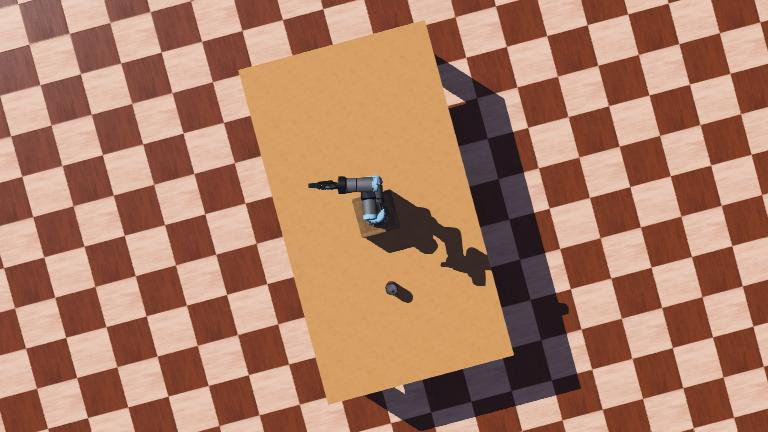
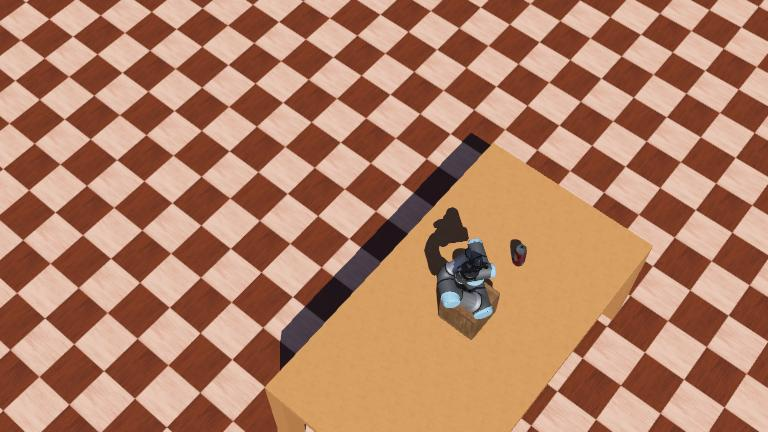
corke IK

diff --git a/controllers/ur3_rtde_controller_IK_Corke/Webots_GUI_Corke_IK.py b/controllers/ur3_rtde_controller_IK_Corke/Webots_GUI_Corke_IK.py
@@ -1,0 +1,154 @@
+import sys
+import json
+import socket
+import math
+from PyQt5.QtWidgets import *
+from PyQt5.QtCore import Qt
+
+# Für Forward Kinematics
+import spatialmath as sm
+from roboticstoolbox import models
+
+class RobotControlGUI(QWidget):
+    def __init__(self):
+        super().__init__()
+        self.sock = socket.socket(socket.AF_INET, socket.SOCK_STREAM)
+        self.ur3_model = models.UR3()
+        self.initUI()
+        self.connect_to_robot()
+        # Einmalige Initialabfrage der aktuellen Pose
+        self.request_current_pose()
+
+    def initUI(self):
+        self.setWindowTitle('UR3e Cartesian Control (MoveL)')
+        layout = QVBoxLayout()
+
+        # Eingabefelder für kartesische Pose, angepasst auf UR3-Arbeitsbereich
+        form = QFormLayout()
+        # UR3 Arbeitsbereich: X und Y in ±0.42m, Z in [0.0, 0.8]
+        self.spin_x = QDoubleSpinBox(); self.spin_x.setRange(-0.42, 0.42); self.spin_x.setSingleStep(0.01)
+        self.spin_y = QDoubleSpinBox(); self.spin_y.setRange(-0.42, 0.42); self.spin_y.setSingleStep(0.01)
+        self.spin_z = QDoubleSpinBox(); self.spin_z.setRange(0.0, 0.8); self.spin_z.setSingleStep(0.01)
+        # Orientierung: Roll, Pitch, Yaw in [-π, π]
+        self.spin_roll = QDoubleSpinBox(); self.spin_roll.setRange(-math.pi, math.pi); self.spin_roll.setSingleStep(0.1)
+        self.spin_pitch = QDoubleSpinBox(); self.spin_pitch.setRange(-math.pi, math.pi); self.spin_pitch.setSingleStep(0.1)
+        self.spin_yaw = QDoubleSpinBox(); self.spin_yaw.setRange(-math.pi, math.pi); self.spin_yaw.setSingleStep(0.1)
+
+        form.addRow('X [m]:', self.spin_x)
+        form.addRow('Y [m]:', self.spin_y)
+        form.addRow('Z [m]:', self.spin_z)
+        form.addRow('Roll [rad]:', self.spin_roll)
+        form.addRow('Pitch [rad]:', self.spin_pitch)
+        form.addRow('Yaw [rad]:', self.spin_yaw)
+        layout.addLayout(form)
+
+        # MoveL Button
+        self.btn_move = QPushButton('MoveL ausführen')
+        self.btn_move.clicked.connect(self.send_moveL)
+        layout.addWidget(self.btn_move)
+
+        # Geschwindigkeit Slider
+        speed_layout = QHBoxLayout()
+        self.ur_speed_slider = QSlider(Qt.Horizontal)
+        self.ur_speed_slider.setMinimum(1)
+        self.ur_speed_slider.setMaximum(100)
+        self.ur_speed_slider.setValue(50)
+        self.ur_speed_slider.valueChanged.connect(self.update_speed_label)
+        self.ur_speed_label = QLabel('Speed: 0.50')
+        speed_layout.addWidget(self.ur_speed_label)
+        speed_layout.addWidget(self.ur_speed_slider)
+        layout.addLayout(speed_layout)
+
+        # Greifer-Buttons
+        grip_layout = QHBoxLayout()
+        self.btn_open = QPushButton('Greifer öffnen')
+        self.btn_close = QPushButton('Greifer schließen')
+        self.btn_open.clicked.connect(self.open_gripper)
+        self.btn_close.clicked.connect(self.close_gripper)
+        grip_layout.addWidget(self.btn_open)
+        grip_layout.addWidget(self.btn_close)
+        layout.addLayout(grip_layout)
+
+        # Status
+        self.status_label = QLabel('Verbindung: nicht verbunden')
+        layout.addWidget(self.status_label)
+
+        self.setLayout(layout)
+        self.resize(400, 300)
+
+    def update_speed_label(self, val):
+        speed = val / 100.0
+        self.ur_speed_label.setText(f'Speed: {speed:.2f}')
+
+    def connect_to_robot(self):
+        try:
+            self.sock.connect(('localhost', 30010))
+            self.status_label.setText('Verbindung: OK')
+            self.status_label.setStyleSheet('color: green')
+        except Exception as e:
+            self.status_label.setText(f'Fehler: {e}')
+            self.status_label.setStyleSheet('color: red')
+
+    def request_current_pose(self):
+        # Gelenkwinkel abrufen und Forward Kinematics anwenden (einmalig)
+        try:
+            cmd = {'command': 'getActualQ'}
+            self.sock.sendall(json.dumps(cmd).encode('utf-8'))
+            resp = self.sock.recv(4096)
+            data = json.loads(resp.decode('utf-8'))
+            if 'data' in data and len(data['data']) == 6:
+                q = data['data']
+                T = self.ur3_model.fkine(q)
+                x, y, z = T.t.flatten().tolist()
+                roll, pitch, yaw = T.rpy(order='xyz')
+                # Werte in SpinBoxes setzen
+                for spin, val in [(self.spin_x, x), (self.spin_y, y), (self.spin_z, z),
+                                  (self.spin_roll, roll), (self.spin_pitch, pitch), (self.spin_yaw, yaw)]:
+                    spin.blockSignals(True)
+                    # Clamp to Arbeitsbereich falls nötig
+                    spin.setValue(val)
+                    spin.blockSignals(False)
+        except Exception as e:
+            print('Fehler request_current_pose:', e)
+
+    def send_moveL(self):
+        pose = [
+            self.spin_x.value(),
+            self.spin_y.value(),
+            self.spin_z.value(),
+            self.spin_roll.value(),
+            self.spin_pitch.value(),
+            self.spin_yaw.value()
+        ]
+        speed = self.ur_speed_slider.value() / 100.0
+        cmd = {'command': 'moveL', 'data': {'pose': pose, 'speed': speed, 'acceleration': 0.3}}
+        try:
+            self.sock.sendall(json.dumps(cmd).encode('utf-8'))
+            resp = self.sock.recv(4096)
+            data = json.loads(resp.decode('utf-8'))
+            print('MoveL Response:', data)
+        except Exception as e:
+            print('Fehler send_moveL:', e)
+
+    def open_gripper(self):
+        self._send_simple('openGripper')
+    def close_gripper(self):
+        self._send_simple('closeGripper')
+    def _send_simple(self, command):
+        try:
+            self.sock.sendall(json.dumps({'command': command}).encode('utf-8'))
+            resp = self.sock.recv(4096)
+            print(f'{command} Response:', resp.decode())
+        except Exception as e:
+            print(f'Fehler {command}:', e)
+
+    def closeEvent(self, event):
+        try: self.sock.close()
+        except: pass
+        event.accept()
+
+if __name__ == '__main__':
+    app = QApplication(sys.argv)
+    gui = RobotControlGUI()
+    gui.show()
+    sys.exit(app.exec_())
